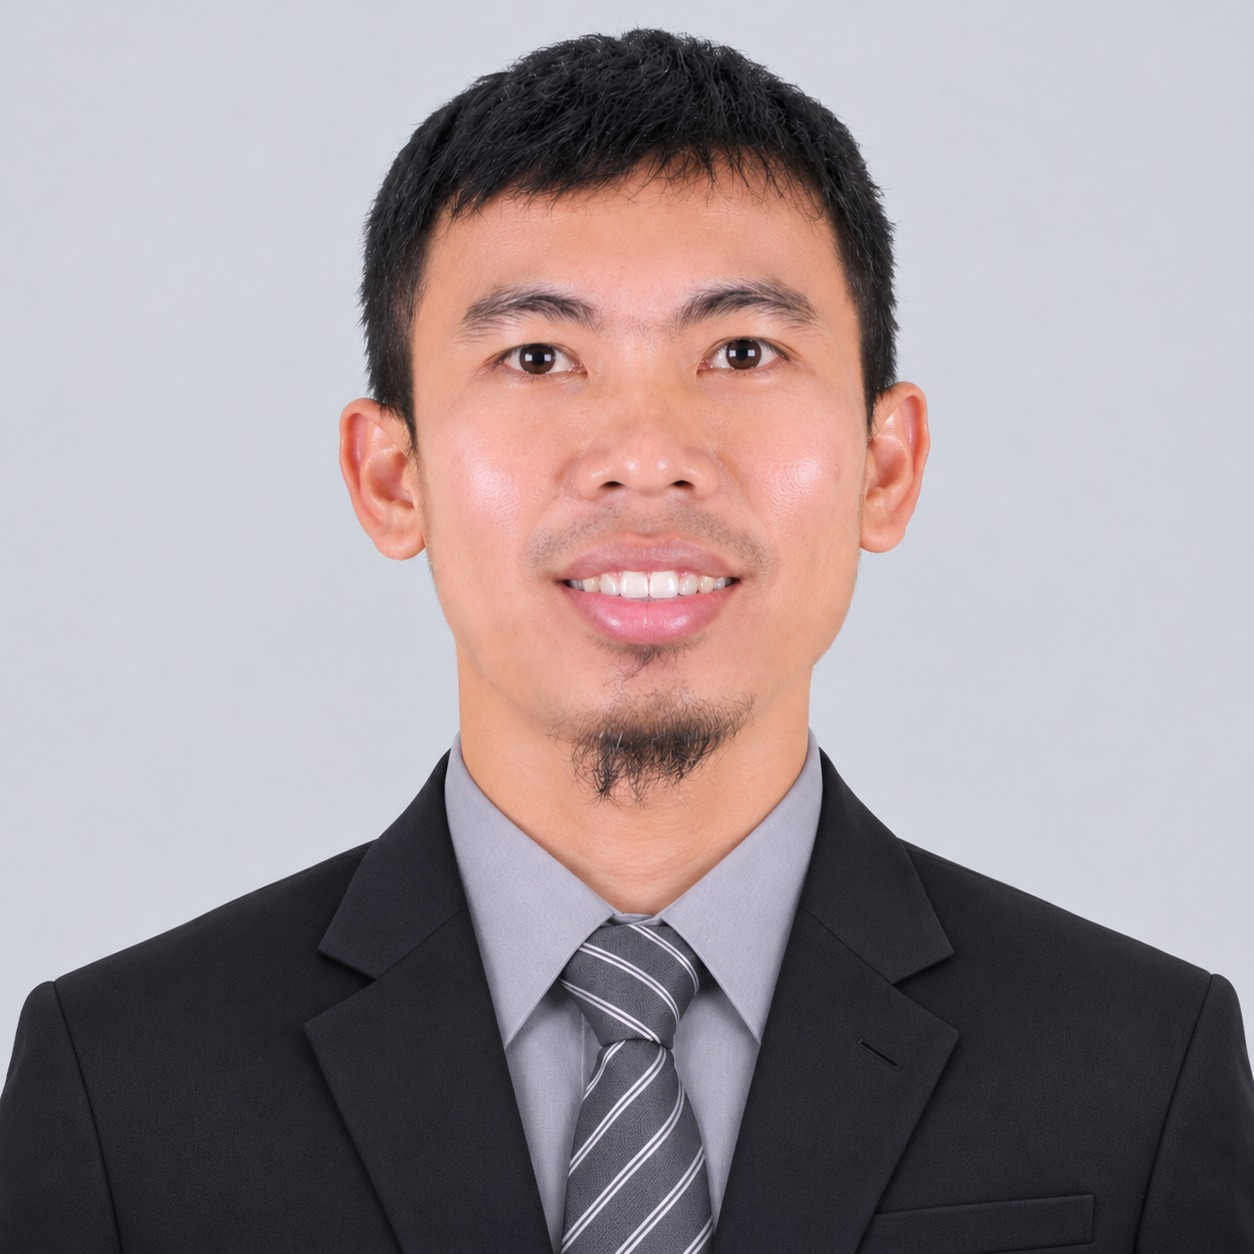
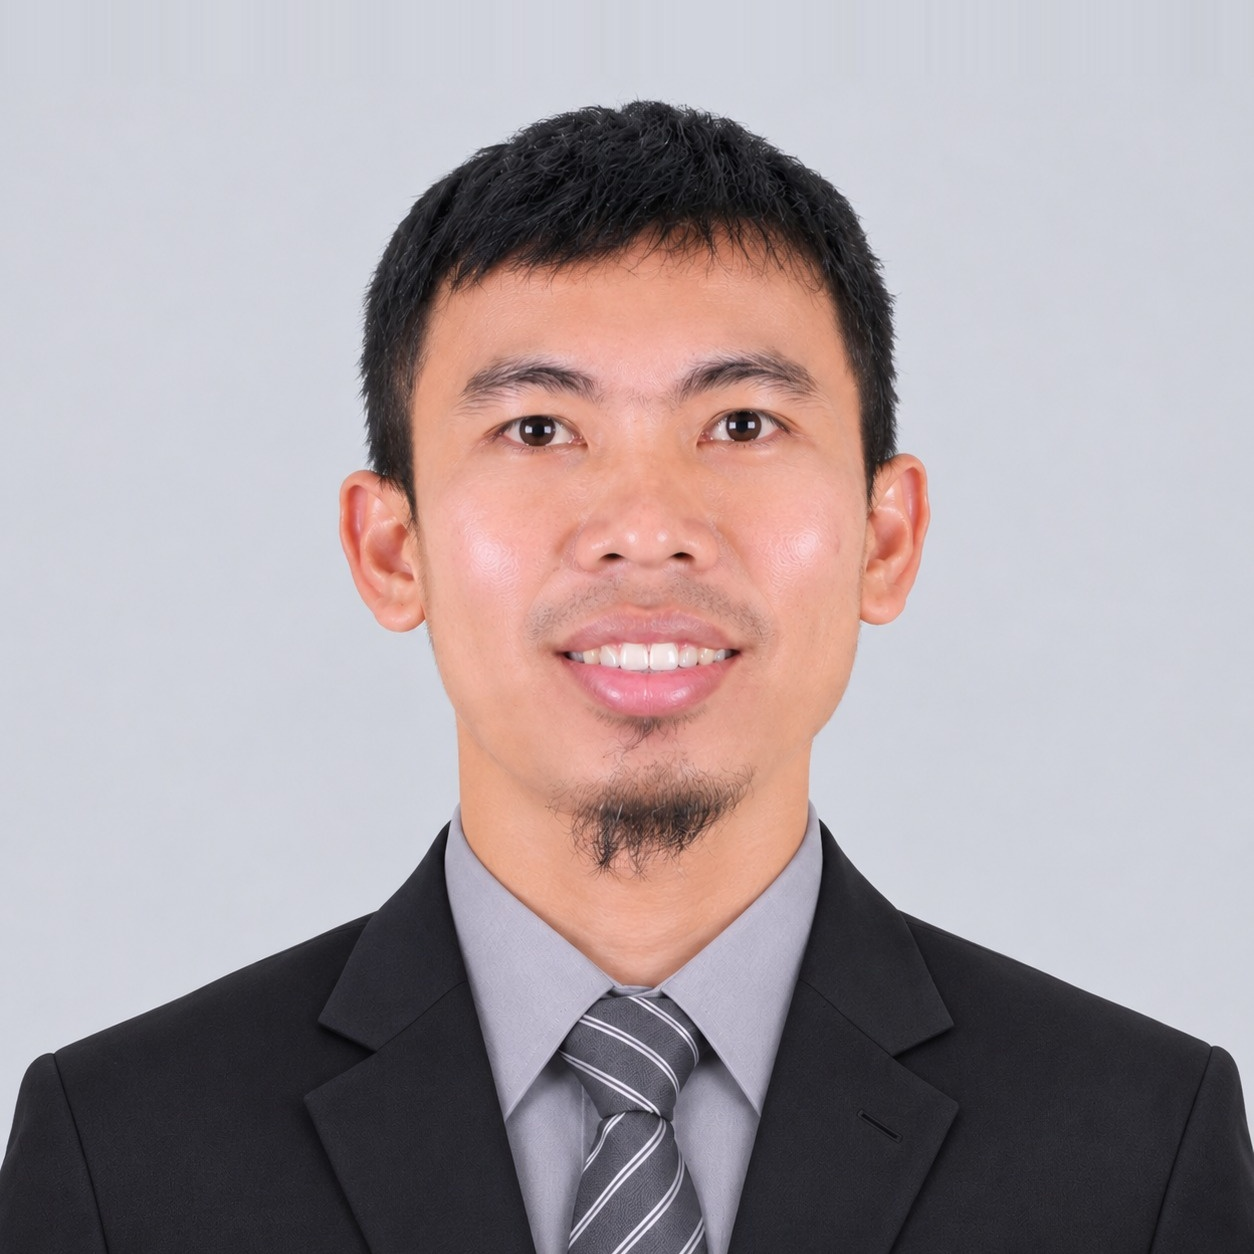
fix(dosen): simetriskan seluruh foto dosen presisi di tengah frame (proporsi headroom 8% seragam)

Changed region(s): [[0.0, 0.0, 1.0, 1.0], [0.2799, 0.7775, 0.311, 0.8086], [0.2488, 0.8086, 0.2799, 0.8397]]

diff --git a/resources/views/pages/dosen.blade.php b/resources/views/pages/dosen.blade.php
@@ -242,7 +242,7 @@ $dosenList = [
                     <div class="aspect-square overflow-hidden bg-slate-100">
                         <img src="{{ asset('images/dosen/' . $dosen['slug'] . '.jpg') }}?v={{ @filemtime(public_path('images/dosen/' . $dosen['slug'] . '.jpg')) ?: 2 }}"
                              alt="{{ $dosen['nama'] }}"
-                             class="w-full h-full object-cover object-top pointer-events-none"
+                             class="w-full h-full object-cover object-center pointer-events-none"
                              loading="lazy">
                     </div>
                     <!-- Info Dosen -->
